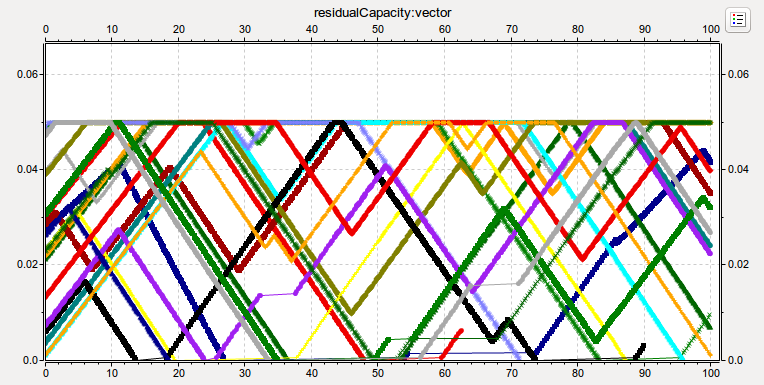
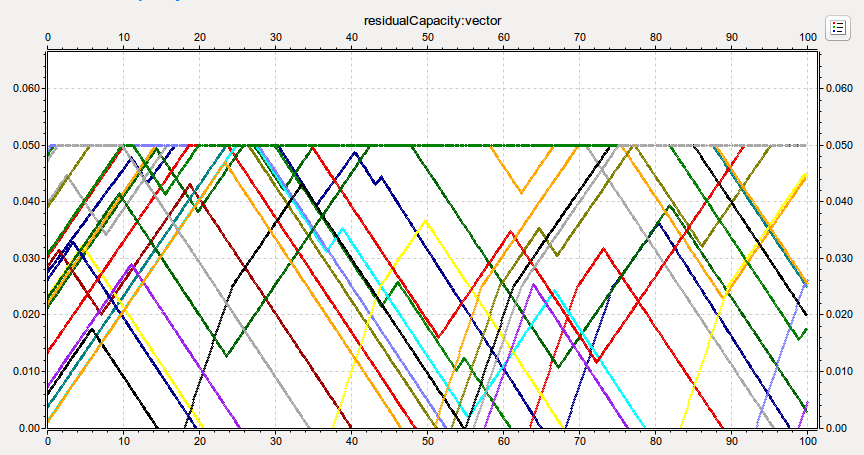
power updates

diff --git a/samples/power/index.html b/samples/power/index.html
@@ -40,13 +40,13 @@
 	<p>
 		The hosts contain an <tt>AlternatingEnergyGenerator</tt>. This alternates between generation and sleep modes. It starts in generation mode, and generates the amount of power
 		that is specified by its <i>powerGeneration</i> parameter (now set to 1 mW). In sleep mode, it generates no power. It stays in each mode for the duration specified by the
-		<i>generationInterval</i> and <i>sleepInterval</i> parameters. These are set to a random value with a mean of 10s.
+		<i>generationInterval</i> and <i>sleepInterval</i> parameters. These are set to a random value with a mean of 25s.
 	</p>
 
 	<p>
 		The <tt>SimpleEnergyStorage</tt> models energy storage by integrating the difference of absorbed and provided power over time.
-		It does not simulate other effects that real batteries have. It is used in this model because the emphasis is on the energy that transmissions use, not how the batteries
-		store the energy.<!TODO more on this>
+		It does not simulate other effects that real batteries have, such as temperature dependency and histeresis. It is used in this model because the emphasis is on the energy that transmissions use, not how the batteries
+		store the energy.
 	</p>
 
 	<p><b>Radio modes and states</b></p>
@@ -54,7 +54,6 @@
 	<p>
 		In the <tt>Ieee80211ScalarRadio</tt> model used in this simulation (and in other radio models), there are different modes in which radios operate, such as off, sleep, receiver, transmitter. The mode is set by the model, and does not depend on external effects. In addition to mode, radios have states, which depend on what they are doing in the given mode - ie. 
 		listening, receiving a transmission, or transmitting. This depends on external factors, such as if there are transmissions going on in the medium.
-		Optionally, each mode and state has a certain power consumption.
 	</p>
 
 	<p><b>Energy consumption of radios</b></p>
@@ -74,7 +73,7 @@
 	</p>
 
 	<p>
-		After a while, the energy storage in hosts get depleted, and the hosts shut down. This is indicated by a red x on the host's symbol.
+		After a while, the energy storage of hosts get depleted, and the hosts shut down. This is indicated by a red x on the host's symbol.
 		The energy generator charges hosts regardless of whether they are depleted or not (as if they were charged by a solar panel).
 	</p>
 
@@ -84,30 +83,37 @@
 		The following chart shows the energy storage levels (<i>residualCapacity</i>) of all the hosts through the course of the simulation.
 		In general, hosts start from a given charge level, and their energy storage level depletes, and reaches zero.
 		When that happens, the hosts shut down. Then they start to charge, and when their charge level reaches the 0.025J threshold, they turn back on.
-		They continue sending ping requests, until they get depleted again. The energy generators provide more power than hosts consume when they are online (on average),
-		thus they often get fully charged, and maintain the maximum charge level while their generators are charging.
+		They continue sending ping requests, until they get depleted again. The energy generators generate more power than hosts consume when they are turned on and charging (on average),
+		thus they often get fully charged, and maintain the maximum charge level while they are charging.<!TODO rephrase>
 	</p>
 
 	<p><center><img src="residualcapacity.png"></center></p>
 
 	<p>
-		The chart below shows the energy storage level (red curve) and the energy generator output (blue curve) of Host 18. The intervals when the generator is charging the energy storage
+		The chart below shows the energy storage level (red curve) and the energy generator output (blue curve) of Host 12. The intervals when the generator is charging the energy storage
 		can be discerned on the energy storage graph as increasing slopes. When the host is transmitting and the generator is charging, the energy levels don't increase as fast.
-		However, the generators provide much more power than the amount hosts consume when online, so this difference in the slope of the curve is subtle.
-		Note that the generators provide more power on average, when hosts are actually transmitting or receiving, they consume more energy than the generator provides.
-		However, this is only the fraction of the time (most of the time they are listening), so it is not visible on this graph.
+		The generator generates 4 mW of power, and radios consume 2 mW when they are idle in receiver mode. Radios are in idle state most of the time, thus their power
+		consumption on average is 2 mW. When the host is turned on and it is being charged, the net charge is 2 mW (4 mW provided by the generator and 2 mW consumed by the radio).
+		When the host is turned off and being charged, the net charge is 4 mW. The latter corresponds to the most steeply increasing curve sections.
+		When the host is turned on but not charging, the consumption is 2 mW, and the curve is decreasing.
 	</p>
 
-	<p><center><img src="host18.png" width=850></center></p>
+	<p>
+		When hosts are turned on, they transmit occasionally. <!TODO rephrase>This results in tiny zigzags in the graph because of temporary increase in power consumption associated with
+		transmissions (the power requirement of transmissions is 100 mW). In the intervals when the host is turned off, the host doesn't transmit, and the curve is smooth. Note that the zigzag on the image is a drawing artifact. The lines are thicker at various intervals because each data point is represented by a finite size symbol.
+	</p>
 
-	<p>The following image shows a fraction of the above curve, where the difference in the slope of the curve is more marked. The host comes online when it reaches the
-		0.025J threshold, and it starts transmitting. The curve is not as steep after that.</p>
+	<p><center><img src="host12.png"></center></p>
 
-		<p><center><img src="host18_2.png"></center></p>
+	<p>
+		The following chart shows how the energy level of host 12 changes during a transmission (the host is currently charging).
+	</p>
+
+	<p><center><img src="host12-2.png"></center></p>
 
 	<p>
 		Host 0 is different from the other hosts in that it doesn't generate ping requests, but sends replies to all the ping requests it receives. Therefore it consumes energy
-		faster. As other hosts just send one ping request as second, Host 0 has to reply to 20 each second. This increased consumption can be seen on the following energy consumption graph
+		faster. As other hosts just send one ping request every second, Host 0 has to reply to 20 ping request each second. This increased consumption can be seen on the following energy level graph
 		as more rapidly decreasing curve (host 0 is the blue curve).
 	</p>
 
@@ -117,10 +123,10 @@
 		dominated by reception.
 	</p>
 
-	<p><center><img src="consumption2.png"></center></p>
+	<p><center><img src="consumption3.png"></center></p>
 
 	<p>
-		Note the decrease in the curve at around 70s. This is when host 0 charges to 0.025J and comes online. When it turns off, the ARP table contents are lost, and host 0
+		Note the decrease in the curve at around 70s. This is when host 0 charges to 0.025J and turns on. When it turned off, the ARP table contents are lost, and host 0
 		has to send ARP requests after it recevies ping requests. It has to send 20 arp requests, and this is visible in the energy consumption chart. The following image shows
 		this increased consumption.
 	</p>
@@ -130,11 +136,11 @@
 	<p>
 		The following chart shows a ping request-ACK-ping reply-ACK exchange between hosts 0 and 3 on the sequence chart and the corresponding changes in energy levels of host 0.
 		Note that host 0 consumes less energy receiving than transmitting. The interval between the ping request-ACK and the ping reply-ACK, the curve is increasing, because the
-		generator is charging host 0. This image shows that hosts indeed consume more power when transmitting than the generator provides. However, transmissions are very short and
+		generator is charging host 0. This image shows that hosts indeed consume more power when transmitting than the generator generates. However, transmissions are very short and
 		very rare, so one needs to zoom in on the graph to see this effect.
 	</p>
 
-	<p><center><img src="ping-ack.png"></center></p>
+	<p><center><img src="ping-ack2.png"></center></p>
 
 
 </body>
